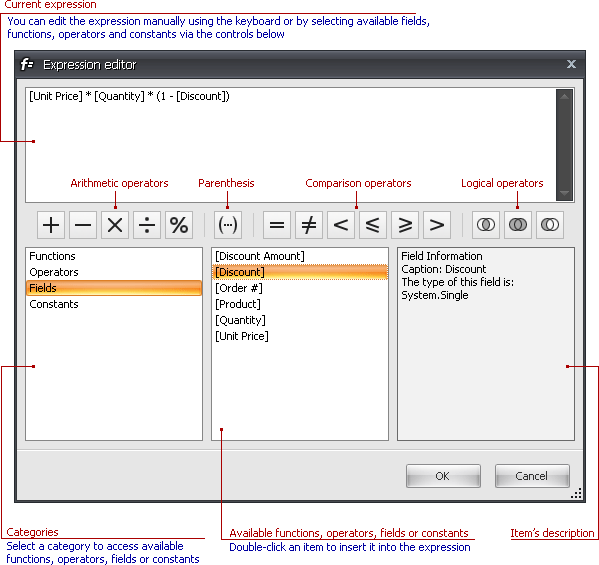
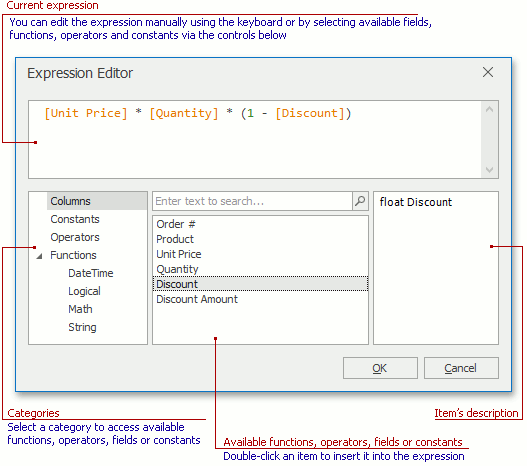
Binding Expressions (#10)
Describe 'expression binding' in  WinForms  Report Designer

diff --git a/interface-elements-for-desktop/articles/report-designer/report-designer-for-winforms/report-editing-basics/displaying-values-from-a-database-(binding-report-elements-to-data).md b/interface-elements-for-desktop/articles/report-designer/report-designer-for-winforms/report-editing-basics/displaying-values-from-a-database-(binding-report-elements-to-data).md
@@ -1,50 +1,54 @@
 ---
-title: Displaying Values from a Database (Binding Report Elements to Data)
+title: Binding Report Elements to Data
 author: Eugeniy Burmistrov
 legacyId: 5568
 ---
-# Displaying Values from a Database (Binding Report Elements to Data)
-Report [controls](../report-designer-reference/report-controls.md) can either display [static](add-or-modify-static-information-in-your-report.md) information or _dynamic_ data fetched from the [bound database](../create-reports/binding-a-report-to-data.md).
+# Binding Report Elements to Data
 
-Data-bound controls are indicated by a yellow database icon in their top-right corner, both in the [Design Panel](../report-designer-reference/report-designer-ui/design-panel.md) and [Report Explorer](../report-designer-reference/report-designer-ui/report-explorer.md).
+> [!WARNING]
+> This topic describes the approach you can use when  *expression binding* is **not enabled** in the Report Designer. If the **Expressions** (![Expressions](../../../../images/icon-expressions.svg)) icon is available in the [Property Grid] (../report-designer-reference/report-designer-ui/property-grid.md), then *expression binding* is enabled, and you should refer to the [Binding Report Elements Using Binding Expressions](binding-report-elements-using-binding-expressions.md) topic instead.
+
+
+Report [controls](../report-designer-reference/report-controls.md) can display both [static](add-or-modify-static-information-in-your-report.md) information and data fetched from a [bound database](../create-reports/binding-a-report-to-data.md).
+
+In the [Design Panel](../report-designer-reference/report-designer-ui/design-panel.md) and in the [Report Explorer](../report-designer-reference/report-designer-ui/report-explorer.md), each data-bound control has a yellow database icon (![Database](../../../../images/icon-database.png)).
 
 ![RD_CreateReports_BindControl_4](../../../../images/img8337.png)
 
-To embed dynamic information to a report, if this information is contained in the report's data source, this can easily be done using one of the following approaches.
-* [Using the Field List](#fieldlist)
-* [Using the Smart Tag](#smarttag)
-* [Using the Property Grid](#propertygrid)
+You can use the following approaches to include information from a data source to your report:
 
-After a control is bound to data, you may wish to employ additional features, which are listed in the final section of this document.
-* [Special Capabilities](#special)
+* [Using the Field List](#using-the-field-list)
+* [Using the Smart Tag](#using-the-smart-tag)
+* [Using the Property Grid](#using-the-property-grid)
 
-## <a name="fieldlist"/>Using the Field List
-* To bind an existing report control to a data field, click the required field item in the [Field List](../report-designer-reference/report-designer-ui/field-list.md), and then drag and drop it onto the control. The yellow database icon inside it will indicate that it's been successfully bound.
-	
-	![RD_Elements_FieldList_1](../../../../images/img8266.png)
+After a control is bound to data, you can apply additional customizations  listed in the [Special Capabilities](#special-capabilities) section.
+
+## Using the Field List
+* To bind an existing report control to a data field, click the required field item in the [Field List](../report-designer-reference/report-designer-ui/field-list.md), and then drag and drop it onto the control. The yellow database icon inside it will indicate that it has been successfully bound.
+
+    ![RD_Elements_FieldList_1](../../../../images/img8266.png)
+
 * To add a new data-bound control, simply drag the required data field from the Field List onto a report band. This will create a [Label](../report-designer-reference/report-controls/label.md) bound to this data field.
-	![RD_Elements_FieldList_0](../../../../images/img8265.png)
-* A more flexible way to create data-bound elements is to right-click a Field List item, and then drag and drop it onto a report. This will invoke the [Context Menu](../report-designer-reference/report-designer-ui/context-menu.md), where you can choose which control should represent your data, and it will be automatically created and bound to the selected data field.
+
+    ![RD_Elements_FieldList_0](../../../../images/img8265.png)
+
+* A more flexible way to create data-bound elements is to right-click a Field List item, and then drag and drop it onto a report. This invokes the [Context Menu](../report-designer-reference/report-designer-ui/context-menu.md), where you can choose a control to visualize data. The selected control will be automatically created and bound to a selected data field.
 	
 	![RD_Elements_FieldList_2](../../../../images/img8267.png)
 
-## <a name="smarttag"/>Using the Smart Tag
+## Using the Smart Tag
 Click a control's [Smart Tag](../report-designer-reference/report-designer-ui/smart-tag.md), and in the invoked actions list, expand the **Data Binding** drop-down list, and select the required data field.
 
 ![RD_CreateReports_BindControl_1](../../../../images/img8334.png)
 
-## <a name="propertygrid"/>Using the Property Grid
-Click a control to select it, and in the [Property Grid](../report-designer-reference/report-designer-ui/property-grid.md), expand the **(Data Bindings)** branch that holds the bindable options. Specify a data field for the required attribute (e.g. **Text**).
+## Using the Property Grid
+Focus a control. In the [Property Grid](../report-designer-reference/report-designer-ui/property-grid.md), expand the **(Data Bindings)** category that contains binding options. Specify a data field for the required attribute (e.g. **Text**).
 
 ![RD_CreateReports_BindControl_2](../../../../images/img8335.png)
 
-## <a name="special"/>Special Capabilities
-After a control is bound, you can apply formatting to its dynamic content (e.g. for it to be treated as currency, or date-time content). For details on this, refer to [Change Value Formatting of Report Elements](change-value-formatting-of-report-elements.md).
-
-It is possible to make a control display a result of a summary function calculated across the data field to which it is bound. For details on this, refer to [Add Totals to a Report](add-totals-to-a-report.md).
-
-Another noteworthy option is to combine both static and dynamic content within the same control (e.g. to append some text prefix or postfix to a value obtained from a database), or even bind a control to multiple data fields at one time. This is detailed in [Use Mail Merge in Report Elements](use-mail-merge-in-report-elements.md).
-
-If it's required to perform some pre-calculations over the data field to which a control is bound, this can be done by creating a _calculated field_, and binding the control to it. This is detailed at [Add Calculated Fields to a Report](add-calculated-fields-to-a-report.md).
-
-In turn, a calculated field may contain both dynamic and static _parameters_, which can be requested each time a report is being previewed. For more information, refer to [Add Parameters to a Report](add-parameters-to-a-report.md).
+## Special Capabilities
+* After a control is bound, you can [apply formatting](change-value-formatting-of-report-elements.md) to its dynamic content (e.g., treat it as a currency, or as a date and time).
+* It is possible to make a control display the result of a summary function calculated across the data field to which it is bound. For details, refer to the [Add Totals to a Report](add-totals-to-a-report.md) topic.
+* You can combine both static and dynamic content within the same control (e.g., append a text prefix or postfix), or bind a control to multiple data fields. For details, refer to the [Use Mail Merge in Report Elements](use-mail-merge-in-report-elements.md).
+* You can [create a calculated field](add-calculated-fields-to-a-report.md) and bind the control to it.
+* A calculated field may use both [parameters](add-parameters-to-a-report.md) requested each time a report is displayed.

diff --git a/interface-elements-for-desktop/articles/report-designer/report-designer-for-winforms/report-editing-basics/binding-report-elements-using-binding-expressions.md b/interface-elements-for-desktop/articles/report-designer/report-designer-for-winforms/report-editing-basics/binding-report-elements-using-binding-expressions.md
@@ -1,0 +1,46 @@
+---
+title: Binding Report Elements Using Binding Expressions
+author: Konstantin Belyakov
+---
+# Binding Report Elements Using Binding Expressions
+> [!WARNING]
+> This topic describes an approach you can use when *expression binding* is enabled in the Report Designer. If the **Expressions** (![Expressions](../../../../images/icon-expressions.svg)) icon is missing in the [Property Grid] (../report-designer-reference/report-designer-ui/property-grid.md), then *expression binding* is not enabled, and you should refer to the [Binding Report Elements to Data](displaying-values-from-a-database-(binding-report-elements-to-data).md) topic instead.
+
+Report [controls](../report-designer-reference/report-controls.md) can display both [static](add-or-modify-static-information-in-your-report.md) information and data fetched from a  [bound database](../create-reports/binding-a-report-to-data.md).
+
+In the [Design Panel](../report-designer-reference/report-designer-ui/design-panel.md), each data-bound control has a yellow database icon (![Database](../../../../images/icon-database.png)) in 
+the top-right corner.
+
+![Design Panel](../../../../images/design-panel-database-icons.png)
+
+You can use the following approaches to include information from a data source to your report:
+
+* [Using the Field List](#using-the-field-list)
+* [Using the Smart Tag](#using-the-smart-tag)
+* [Using the Expressions Tab in the Property Grid](#using-the-expressions-tab-in-the-property-grid)
+
+
+## Using the Field List
+* To bind an existing report control to a data field, drag the required field item from the [Field List](../report-designer-reference/report-designer-ui/field-list.md) onto the control. The yellow database icon indicates that it has been successfully bound.
+	
+	![RD_Elements_FieldList_1](../../../../images/img8266.png)
+* To add a new data-bound control, simply drag the required data field from the Field List onto a report band. This will create a [Label](../report-designer-reference/report-controls/label.md) bound to this data field.
+
+	![RD_Elements_FieldList_0](../../../../images/img8265.png)
+* A more flexible way to create data-bound elements is to right-click a Field List item, and then drag and drop it onto a report. This invokes the [Context Menu](../report-designer-reference/report-designer-ui/context-menu.md), where you can choose a control to visualize  data. The selected control will be automatically created and bound to a selected data field.
+	
+	![](../../../../images/img8267.png)
+
+## Using the Smart Tag
+Click a control's [Smart Tag](../report-designer-reference/report-designer-ui/smart-tag.md). In the actions list, expand the **Expression** drop-down list and select the required field.
+
+![Expressions Smart Tag](../../../../images/binding-expressions-smart-tag.png)
+ 
+Alternatively, you can click the ellipsis button to the right of the **Expression** field and create a complex binding [expression](../../../expression-editor/expression-operators-functions-and-constants.md) in the invoked [Expression Editor](../../../expression-editor.md).
+
+![Expressions Smart Tag - Expression Editor](../../../../images/binding-expressions-smart-tag-expression-editor.png)
+
+## Using the Expressions Tab in the Property Grid
+Focus the required report control and select the **Expressions** (![Expressions](../../../../images/icon-expressions.svg)) tab in the [Property Grid] (../report-designer-reference/report-designer-ui/property-grid.md). Click the ellipsis button to the right of the **Text** property to invoke the Expression Editor and specify an expression.
+
+![Expressions Smart Tag](../../../../images/binding-expressions-property-grid.png)

diff --git a/interface-elements-for-desktop/articles/report-designer/report-designer-for-winforms/report-editing-basics.md b/interface-elements-for-desktop/articles/report-designer/report-designer-for-winforms/report-editing-basics.md
@@ -17,7 +17,8 @@ The following documents are available in this section.
 
 **Providing Data**
 * [Add or Modify Static Information in Your Report](report-editing-basics/add-or-modify-static-information-in-your-report.md)
-* [Displaying Values from a Database (Binding Report Elements to Data)](report-editing-basics/displaying-values-from-a-database-(binding-report-elements-to-data).md)
+* [Binding Report Elements to Data](report-editing-basics/displaying-values-from-a-database-(binding-report-elements-to-data).md)
+* [Binding Report Elements Using Binding Expressions](report-editing-basics/binding-report-elements-using-binding-expressions.md)
 * [Use Mail Merge in Report Elements](report-editing-basics/use-mail-merge-in-report-elements.md)
 * [Add Calculated Fields to a Report](report-editing-basics/add-calculated-fields-to-a-report.md)
 * [Add Parameters to a Report](report-editing-basics/add-parameters-to-a-report.md)
